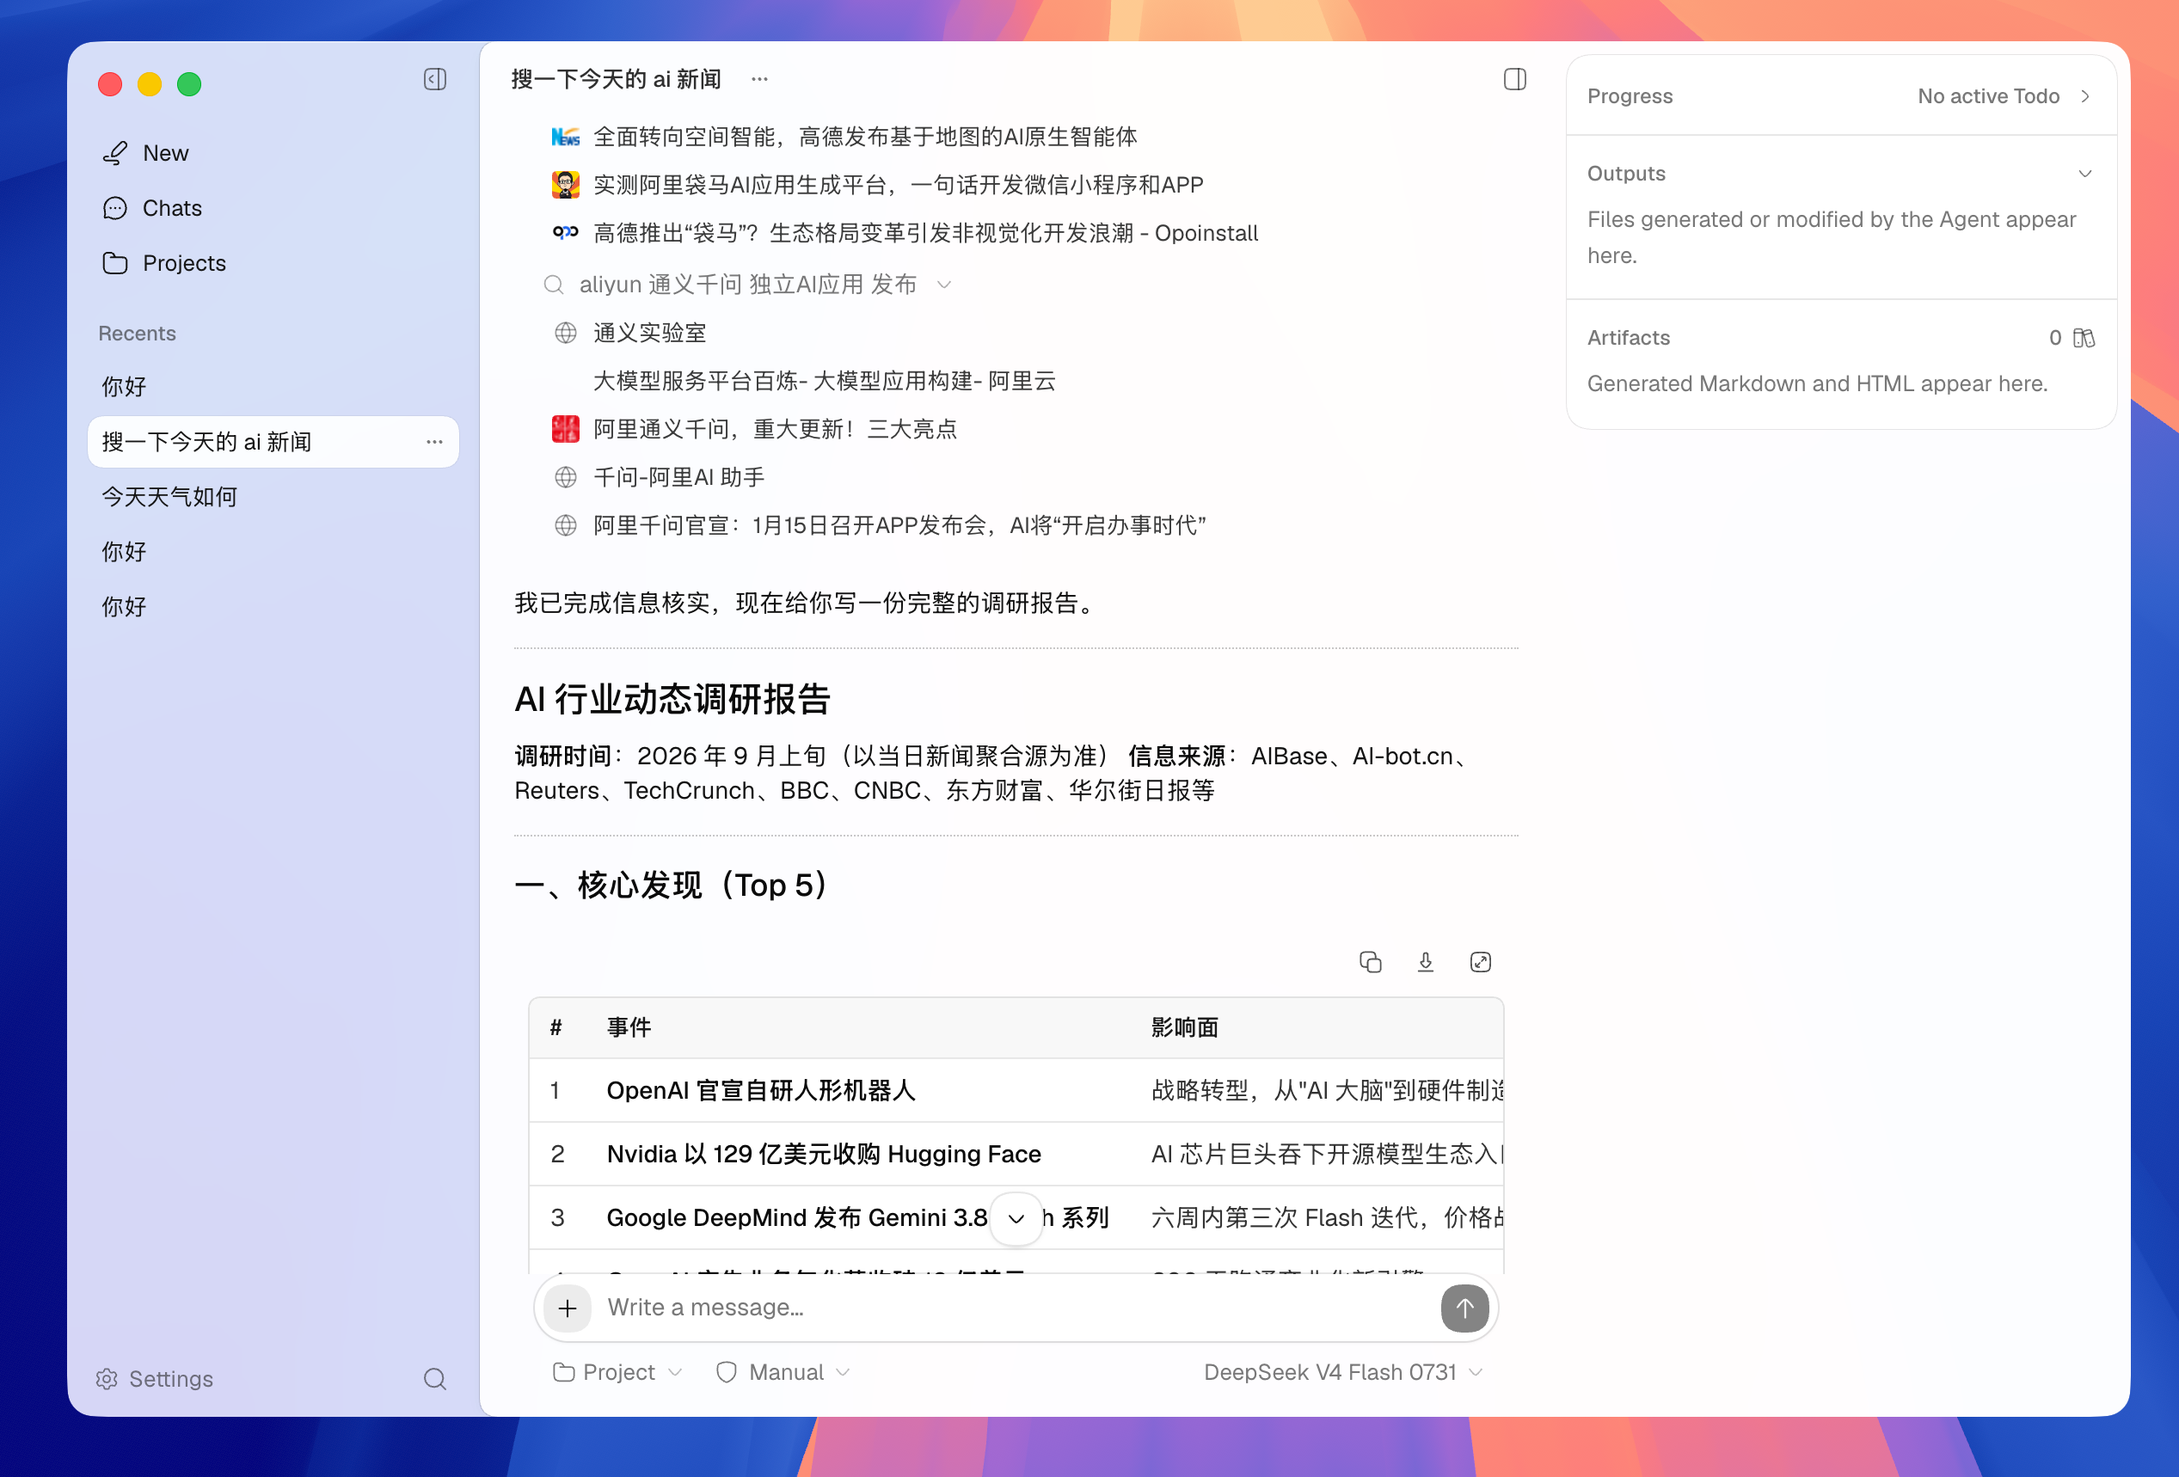
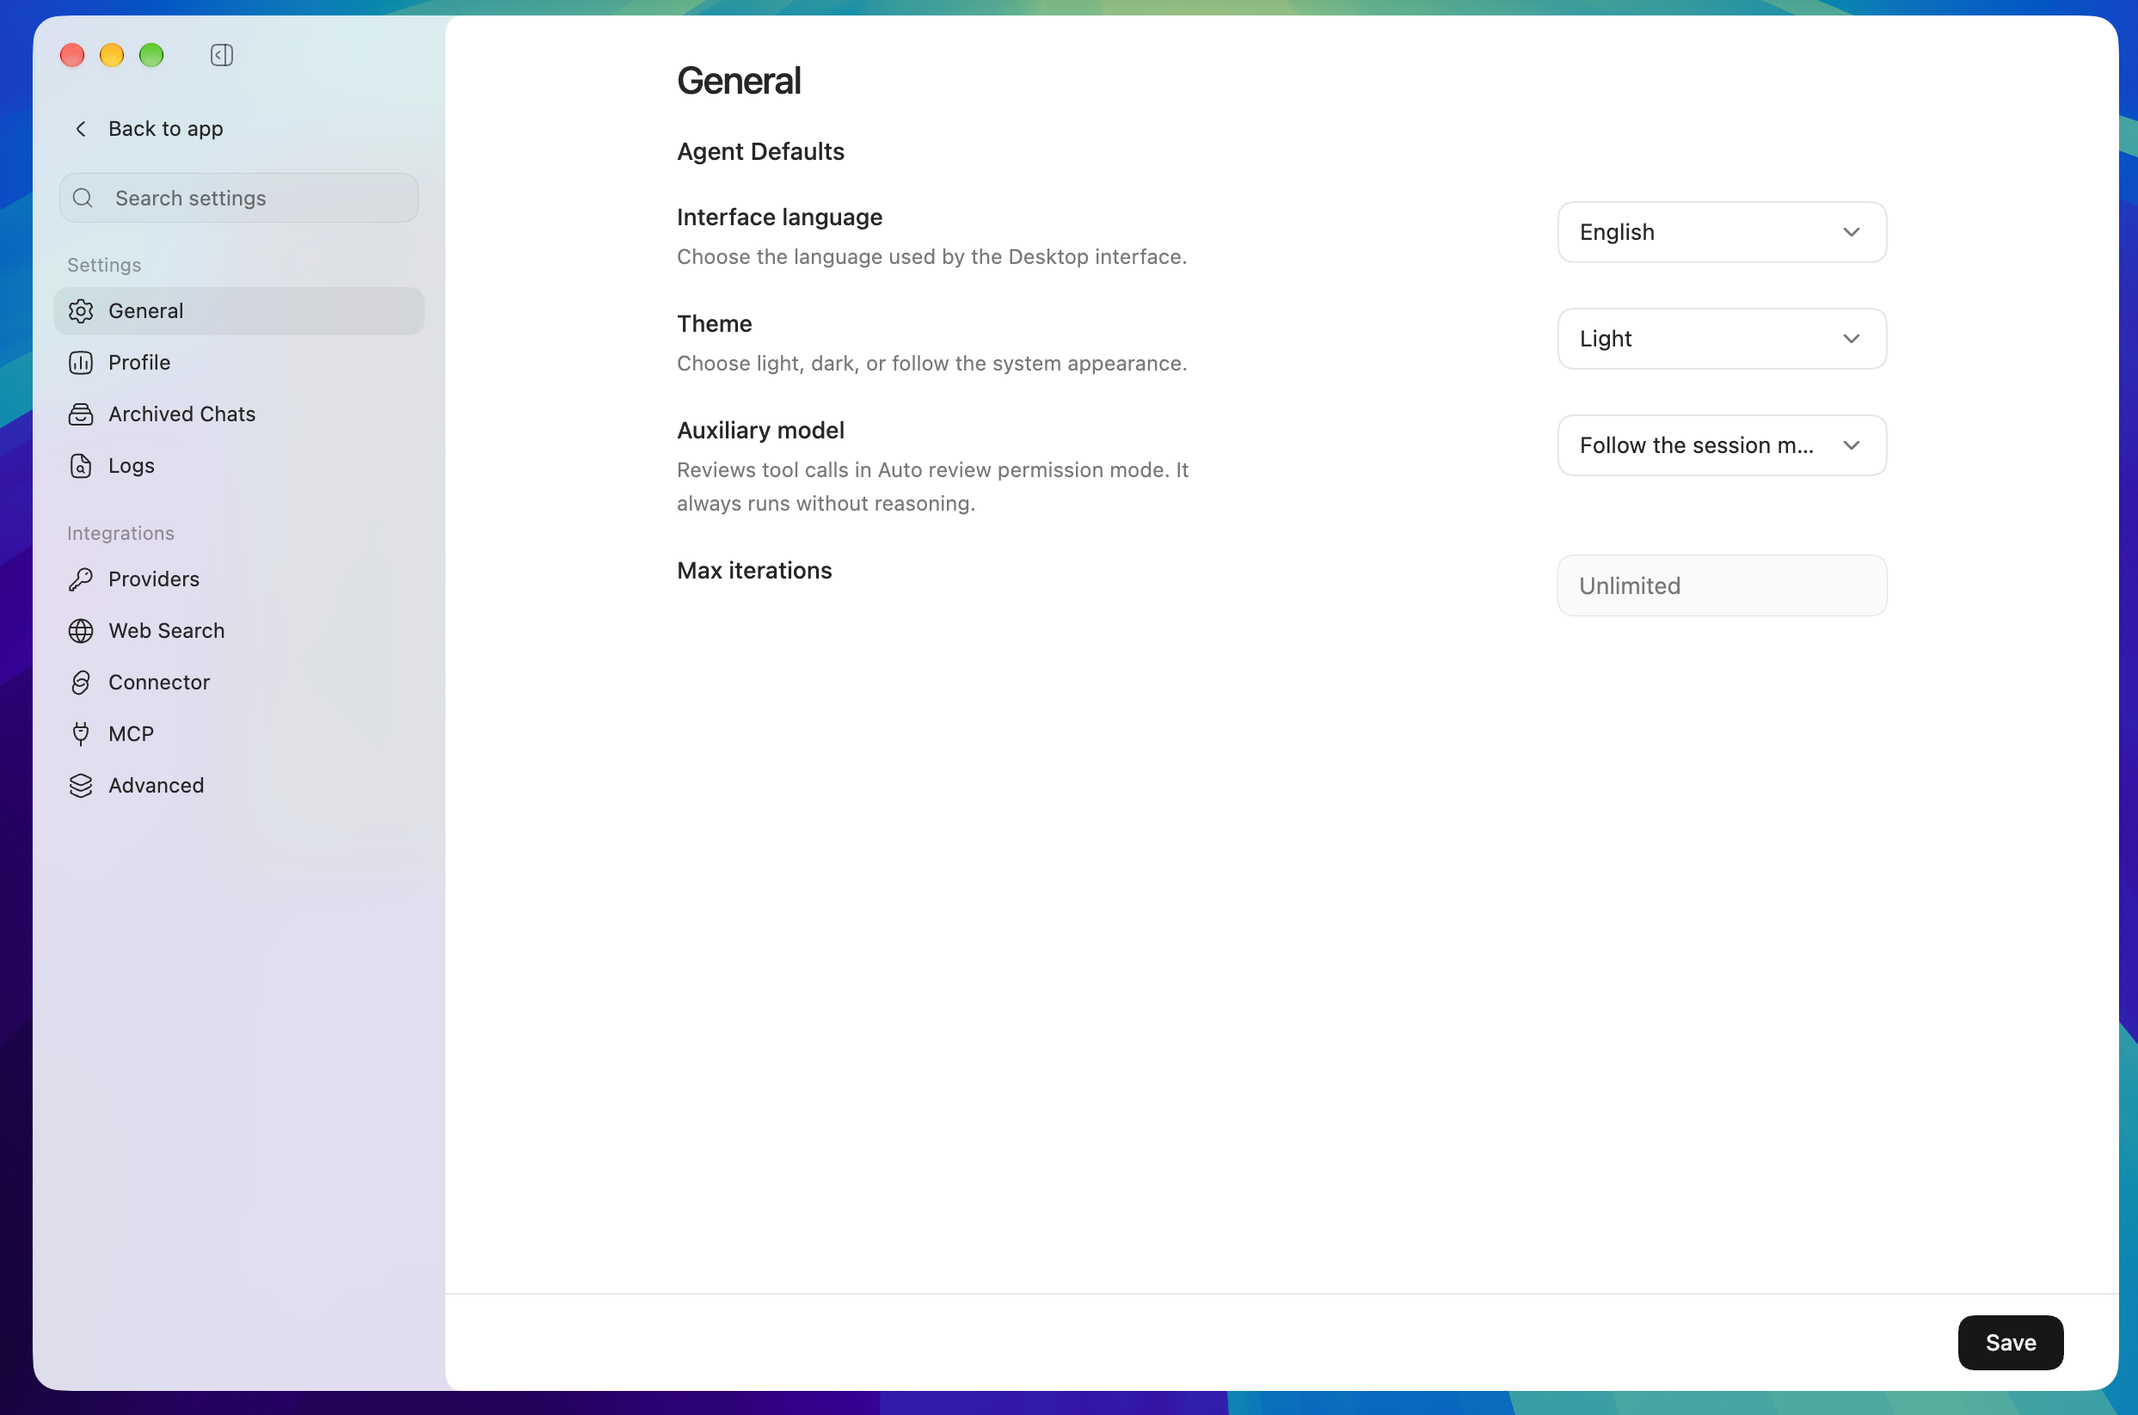
feat(background): implement background command execution in Bash tool

diff --git a/packages/agent/src/harness/tools/bash.ts b/packages/agent/src/harness/tools/bash.ts
@@ -16,6 +16,7 @@ const bashParameters = Type.Object(
 	{
 		command: Type.String({ minLength: 1 }),
 		timeoutMs: Type.Optional(Type.Integer({ minimum: 1, maximum: MAX_TIMEOUT_MS })),
+		runInBackground: Type.Optional(Type.Boolean()),
 	},
 	{ additionalProperties: false },
 );
@@ -49,6 +50,7 @@ export interface BashToolDetails {
 	exitCode: number | null;
 	durationMs: number;
 	timedOut: boolean;
+	backgroundProcessId?: number;
 	fullOutputPath?: string;
 	truncation?: TruncationDetails;
 }
@@ -67,10 +69,10 @@ export function createBashTool(options: BashToolOptions): AgentTool<typeof bashP
 	return {
 		name: "Bash",
 		description:
-			"Execute a POSIX shell command in the workspace with timeout, cancellation, and bounded output. Do not use grep, find, cat, ls, head, or tail to explore the workspace; search with the grep or find tools, or rg if Bash search is required. Read files with Read.",
+			"Execute a POSIX shell command in the workspace with timeout, cancellation, and bounded output. Set runInBackground to true for long-running commands such as npm run dev; it returns after starting the command. Do not use grep, find, cat, ls, head, or tail to explore the workspace; search with the grep or find tools, or rg if Bash search is required. Read files with Read.",
 		parameters: bashParameters,
 		executionMode: "sequential",
-		async execute(_toolCallId, args, signal, onUpdate) {
+		async execute(toolCallId, args, signal, onUpdate) {
 			const cwd = await options.fileSystem.resolvePath(".", {
 				base: options.workspaceRoot,
 				boundary: options.workspaceRoot,
@@ -97,6 +99,7 @@ export function createBashTool(options: BashToolOptions): AgentTool<typeof bashP
 			let updateTimer: ReturnType<typeof setTimeout> | undefined;
 			let updateDirty = false;
 			let keepOutput = false;
+			let backgroundTask: { readonly agentId: string; readonly title: string } | undefined;
 			const snapshot = (): { text: string; truncation?: TruncationDetails; truncated: boolean } => {
 				const totalLines = sawOutput ? newlineCount + (lastCharacterWasNewline ? 0 : 1) : 0;
 				const result = truncateText(tail, {
@@ -160,6 +163,18 @@ export function createBashTool(options: BashToolOptions): AgentTool<typeof bashP
 					shellResult = await options.shell.execute(args.command, {
 						cwd: cwd.path,
 						timeoutMs,
+						background: args.runInBackground,
+						onBackgroundStarted: args.runInBackground
+							? ({ pid, stop, settled }) => {
+									backgroundTask = options.background?.start({
+										toolCallId,
+										command: args.command,
+										pid,
+										stop,
+										settled,
+									});
+								}
+							: undefined,
 						signal,
 						onOutput: (chunk) => append(chunk.text),
 					});
@@ -184,6 +199,20 @@ export function createBashTool(options: BashToolOptions): AgentTool<typeof bashP
 					});
 				}
 				const final = snapshot();
+				if (shellResult.backgroundProcessId !== undefined) {
+					return {
+						content: [{ type: "text", text: "Started background command." }],
+						details: {
+							exitCode: null,
+							durationMs: shellResult.durationMs,
+							timedOut: false,
+							backgroundProcessId: shellResult.backgroundProcessId,
+							status: "background_running",
+							agentId: backgroundTask?.agentId,
+							title: backgroundTask?.title,
+						},
+					};
+				}
 				const text = final.text || "(no output)";
 				keepOutput = final.truncated;
 				const details: BashToolDetails = {

diff --git a/packages/coding-agent/src/tools/index.ts b/packages/coding-agent/src/tools/index.ts
@@ -1,5 +1,6 @@
 import { type AgentTool, createHarnessTools } from "@jai/agent";
 import type { NodeExecutionEnvironment } from "@jai/agent/node/environment";
+import type { BackgroundAgentStore } from "../runtime/background";
 import type { CodingToolName } from "./names";
 import type { CodingToolOptions } from "./types";
 
@@ -9,11 +10,33 @@ export function createCodingTools(
 	options: CodingToolOptions,
 	environment: NodeExecutionEnvironment,
 	enabledTools?: ReadonlySet<CodingToolName>,
+	backgroundAgents?: BackgroundAgentStore,
 ): AgentTool[] {
 	const tools = createHarnessTools({
 		environment,
 		workspaceRoot: options.cwd,
-		bash: { defaultTimeoutMs: options.timeoutMs },
+		bash: {
+			defaultTimeoutMs: options.timeoutMs,
+			background: backgroundAgents
+				? {
+						start: ({ toolCallId, command, stop, settled }) => {
+							const agentId = backgroundAgents.nextAgentId();
+							const title = command;
+							backgroundAgents.register({ toolCallId, agentId, title });
+							backgroundAgents.bindAbort(toolCallId, stop);
+							void settled.then((exitCode) => {
+								if (exitCode === 0) backgroundAgents.complete(toolCallId, "Background command completed.");
+								else
+									backgroundAgents.fail(
+										toolCallId,
+										`Background command exited with code ${exitCode ?? "unknown"}.`,
+									);
+							});
+							return { agentId, title };
+						},
+					}
+				: undefined,
+		},
 	});
 	return enabledTools ? tools.filter((tool) => enabledTools.has(tool.name as CodingToolName)) : tools;
 }

diff --git a/app/desktop/electron/agent/acp-host.ts b/app/desktop/electron/agent/acp-host.ts
@@ -835,7 +835,11 @@ export class DesktopAcpAgentHost {
 	#toolUpdate(runtime: AcpSessionRuntime, update: Record<string, unknown>): void {
 		if (typeof update.toolCallId !== "string") return;
 		const subagentId = `subagent:${update.toolCallId}`;
-		if (toolNameFromMetadata(update._meta) === SUBAGENT_TOOL_NAME || runtime.items.has(subagentId)) {
+		if (
+			toolNameFromMetadata(update._meta) === SUBAGENT_TOOL_NAME ||
+			backgroundFromMetadata(update._meta) ||
+			runtime.items.has(subagentId)
+		) {
 			this.#subagentUpdate(runtime, update, subagentId);
 			return;
 		}
@@ -930,7 +934,9 @@ export class DesktopAcpAgentHost {
 		if (!turnId) return;
 		const rawInput = isRecord(update.rawInput) ? update.rawInput : undefined;
 		const rawTitle = typeof rawInput?.title === "string" ? rawInput.title.trim() : "";
-		const title = rawTitle || previousSubagent?.title || SUBAGENT_TOOL_NAME;
+		const rawCommand = typeof rawInput?.command === "string" ? rawInput.command.trim() : "";
+		const toolName = toolNameFromMetadata(update._meta);
+		const title = rawTitle || rawCommand || previousSubagent?.title || toolName || SUBAGENT_TOOL_NAME;
 		if (backgroundFromMetadata(update._meta)) runtime.backgroundToolCallIds.add(update.toolCallId);
 		if (backgroundSettledFromMetadata(update._meta)) runtime.backgroundToolCallIds.delete(update.toolCallId);
 		const stillBackground = runtime.backgroundToolCallIds.has(update.toolCallId);

diff --git a/packages/coding-agent/src/runtime/assemble.ts b/packages/coding-agent/src/runtime/assemble.ts
@@ -2,6 +2,7 @@ import type { AgentHookMap, AgentTool, ToolMiddleware } from "@jai/agent";
 import type { NodeExecutionEnvironment } from "@jai/agent/node/environment";
 import { type CodingToolOptions, createCodingTools } from "../tools";
 import type { CodingToolName } from "../tools/names";
+import type { BackgroundAgentStore } from "./background";
 import type { CodingExecutionContext } from "./execution-context";
 
 export interface AssembleAgentCapabilitiesInput {
@@ -16,6 +17,7 @@ export interface AssembleAgentCapabilitiesInput {
 	readonly extraTools?: readonly AgentTool[];
 	readonly extraAroundToolCall?: readonly ToolMiddleware[];
 	readonly extraOnEvent?: AgentHookMap["onEvent"];
+	readonly backgroundAgents?: BackgroundAgentStore;
 }
 
 export interface AssembledAgentCapabilities {
@@ -30,7 +32,12 @@ export function assembleAgentCapabilities(input: AssembleAgentCapabilitiesInput)
 	const environment = input.toolEnvironment;
 	const codingTools =
 		input.executionContext.localFileAccess && environment
-			? createCodingTools({ cwd: input.executionContext.cwd, ...input.toolOptions }, environment, input.enabledTools)
+			? createCodingTools(
+					{ cwd: input.executionContext.cwd, ...input.toolOptions },
+					environment,
+					input.enabledTools,
+					input.backgroundAgents,
+				)
 			: [];
 	return {
 		tools: [...(input.extraTools ?? []), ...(input.extensionTools ?? []), ...codingTools],

diff --git a/packages/agent/src/harness/node/environment.ts b/packages/agent/src/harness/node/environment.ts
@@ -414,8 +414,26 @@ export class NodeExecutionEnvironment implements ExecutionEnvironment, PathCapab
 			cwd: options.cwd,
 			detached: process.platform !== "win32",
 			env: spec.environment,
-			stdio: ["ignore", "pipe", "pipe"],
+			stdio: options.background ? "ignore" : ["ignore", "pipe", "pipe"],
 		});
+		if (options.background) {
+			// The detached process owns its stdio and process group. Do not retain a
+			// handle in the agent: this is intentionally volatile host state.
+			const settled = new Promise<number | null>((resolve) => {
+				child.once("close", resolve);
+				child.once("error", () => resolve(null));
+			});
+			const stop = () => {
+				if (!child.pid) return;
+				try {
+					if (process.platform !== "win32") process.kill(-child.pid, "SIGTERM");
+					else child.kill();
+				} catch {}
+			};
+			options.onBackgroundStarted?.({ pid: child.pid!, stop, settled });
+			child.unref();
+			return { exitCode: null, durationMs: Date.now() - startedAt, backgroundProcessId: child.pid };
+		}
 		let spawnError: unknown;
 		const completion = new Promise<number | null>((resolve) => {
 			child.once("close", resolve);

diff --git a/packages/extension/src/search/index.ts b/packages/extension/src/search/index.ts
@@ -268,11 +268,16 @@ async function createFinder(
 				new CodingExtensionOperationFailed({ message: `FFF could not initialize: ${created.error}` }),
 			);
 		}
-		const ready = await created.value.waitForIndexReady(INDEX_TIMEOUT_MS);
-		if (!ready.ok || !ready.value) {
+		// Warmup (bigram / mmap) can stay incomplete after the file walk, and
+		// waitForIndexReady then fails the whole Operation. Find and grep already
+		// read the scanned file list; warmup continues in the background.
+		const scanned = await created.value.waitForScan(INDEX_TIMEOUT_MS);
+		if (!scanned.ok || !scanned.value) {
 			created.value.destroy();
 			return Result.err(
-				new CodingExtensionOperationFailed({ message: ready.ok ? "FFF index did not become ready" : ready.error }),
+				new CodingExtensionOperationFailed({
+					message: scanned.ok ? "FFF file scan did not finish" : scanned.error,
+				}),
 			);
 		}
 		return Result.ok(created.value);

diff --git a/packages/agent/src/harness/tools/types.ts b/packages/agent/src/harness/tools/types.ts
@@ -1,5 +1,15 @@
 import type { ExecutionEnvironment, FileSystem, Shell } from "../environment";
 
+export interface BackgroundShellProcessHandler {
+	start(input: {
+		readonly toolCallId: string;
+		readonly command: string;
+		readonly pid: number;
+		readonly stop: () => void;
+		readonly settled: Promise<number | null>;
+	}): { readonly agentId: string; readonly title: string };
+}
+
 export interface TruncationDetails {
 	truncated: true;
 	direction: "head" | "tail";
@@ -18,10 +28,11 @@ export interface WorkspaceToolOptions {
 export interface BashToolOptions extends WorkspaceToolOptions {
 	shell: Shell;
 	defaultTimeoutMs?: number;
+	background?: BackgroundShellProcessHandler;
 }
 
 export interface HarnessToolsOptions {
 	environment: ExecutionEnvironment;
 	workspaceRoot: string;
-	bash?: Pick<BashToolOptions, "defaultTimeoutMs">;
+	bash?: Pick<BashToolOptions, "defaultTimeoutMs" | "background">;
 }

diff --git a/packages/agent/test/harness/tools/bash.test.ts b/packages/agent/test/harness/tools/bash.test.ts
@@ -58,6 +58,26 @@ describe("bash tool", () => {
 		await expect(run).rejects.toThrow("Command aborted");
 	});
 
+	test("starts long-running commands in the background", async () => {
+		const cwd = await createWorkspace();
+		const tool = createBashTool(createNodeToolOptions(cwd).bash);
+
+		const result = await tool.execute("bash-background", {
+			command: "sleep 30",
+			runInBackground: true,
+		});
+
+		expect(result.details?.backgroundProcessId).toBeTypeOf("number");
+		expect(result.content[0]).toEqual({
+			type: "text",
+			text: expect.stringContaining("Started background command"),
+		});
+
+		const pid = result.details?.backgroundProcessId;
+		expect(pid).toBeTypeOf("number");
+		process.kill(pid!, "SIGTERM");
+	});
+
 	test("keeps full output in a temporary file when truncated", async () => {
 		const cwd = await createWorkspace();
 		const tool = createBashTool(createNodeToolOptions(cwd).bash);

diff --git a/packages/coding-agent/src/runtime/create-coding-agent.ts b/packages/coding-agent/src/runtime/create-coding-agent.ts
@@ -460,6 +460,7 @@ export async function createCodingAgent<TSchema extends TObject, TAppState exten
 		const allowed = (tool: AgentTool) => !excludeTools.includes(tool.name);
 		const childToolCatalog = extensionToolCatalog.current?.createScope(allowed);
 		const childCapabilities = assembleAgentCapabilities({
+			backgroundAgents,
 			kind: "isolated",
 			executionContext: options.executionContext,
 			toolOptions: options.tools,
@@ -517,6 +518,7 @@ export async function createCodingAgent<TSchema extends TObject, TAppState exten
 	};
 	const primaryTools = extensionToolCatalog.current?.frontdoorTools ?? [];
 	const capabilities = assembleAgentCapabilities({
+		backgroundAgents,
 		kind: "primary",
 		executionContext: options.executionContext,
 		toolOptions: options.tools,

diff --git a/app/server/src/operations/runtime.ts b/app/server/src/operations/runtime.ts
@@ -96,7 +96,7 @@ export type RuntimeOperationEvent =
 			readonly type: "tool_started";
 			readonly toolCallId: string;
 			/** Canonical SDK tool identity; display titles are not a protocol discriminator. */
-			readonly toolName: string;
+			readonly toolName?: string;
 			readonly title: string;
 			readonly kind: "read" | "edit" | "search" | "execute" | "other";
 			readonly rawInput: JsonObject;
@@ -152,6 +152,7 @@ export type RuntimeOperationEvent =
 			readonly toolCallId: string;
 			readonly agentId: string;
 			readonly title: string;
+			readonly toolName?: string;
 	  }
 	| {
 			/** Success is not reported here: it is the durable compaction entry itself. */

diff --git a/packages/agent/src/harness/environment/types.ts b/packages/agent/src/harness/environment/types.ts
@@ -83,6 +83,13 @@ export interface ShellExecuteOptions extends AbortOptions {
 	cwd: string;
 	shell?: string;
 	timeoutMs: number;
+	/** Starts the command and returns without waiting for its process tree. */
+	background?: boolean;
+	onBackgroundStarted?: (input: {
+		readonly pid: number;
+		readonly stop: () => void;
+		readonly settled: Promise<number | null>;
+	}) => void;
 	onOutput?: (chunk: ShellOutputChunk) => void | Promise<void>;
 }
 
@@ -90,6 +97,7 @@ export interface ShellResult {
 	exitCode: number | null;
 	durationMs: number;
 	truncated?: boolean;
+	backgroundProcessId?: number;
 }
 
 export interface Shell {

diff --git a/packages/coding-agent/src/sdk/types.ts b/packages/coding-agent/src/sdk/types.ts
@@ -83,7 +83,7 @@ export type CodingAgentMessage =
 	| {
 			readonly role: "toolResult";
 			readonly toolCallId: string;
-			readonly toolName: string;
+			readonly toolName?: string;
 			readonly content: readonly (CodingTextContent | CodingImageContent)[];
 			readonly fileChanges?: readonly CodingFileChange[];
 			readonly isError: boolean;
@@ -390,6 +390,7 @@ export type CodingAgentEvent =
 			readonly toolCallId: string;
 			readonly agentId: string;
 			readonly title: string;
+			readonly toolName?: string;
 			readonly status: "complete" | "error" | "stopped";
 	  };
 
